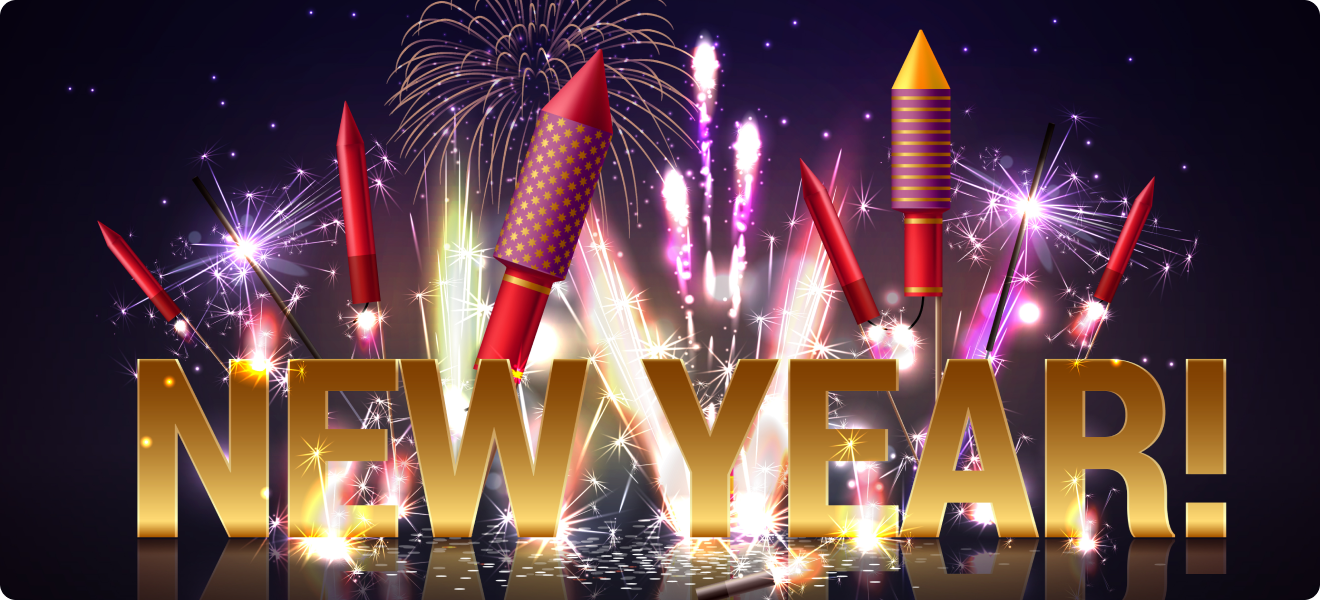
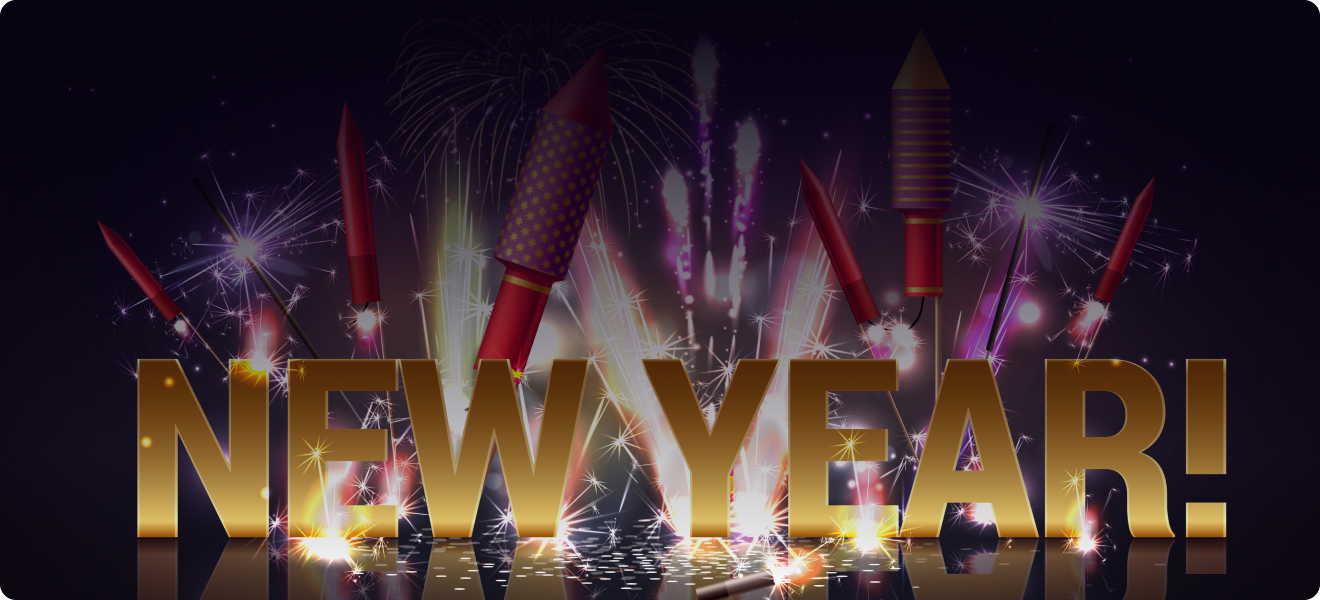
Baneer Done

diff --git a/style.css b/style.css
@@ -12,10 +12,17 @@ html, body{
 
 @import url('https://fonts.googleapis.com/css2?family=Roboto+Slab:wght@100..900&display=swap');
 
-.header{
-    height: 100vh;
+header{
+    height: 80vh;
+    margin: 20px 40px 0 40px;
     background-image: url(./assets/Banner\ Image.png);
     background-size: cover;
     background-repeat: no-repeat;
     background-position: center center;
+    border-radius: 6px;
+    display: flex;
+    flex-direction: column;
+    align-items: center;
+    justify-content: center;
+    color: white;
 }

diff --git a/index.html b/index.html
@@ -7,9 +7,10 @@
     <title>Document</title>
 </head>
 <body>
-    <header class="header">
-        <h6>Happy New year</h6>
-        <h2>New Year Party Celevration</h2>
+    <header>
+         <h6>Happy New year</h6>
+         <h2>New Year Party</h2>
+         <h2>Celevration</h2>
     </header>
 </body>
 </html>
